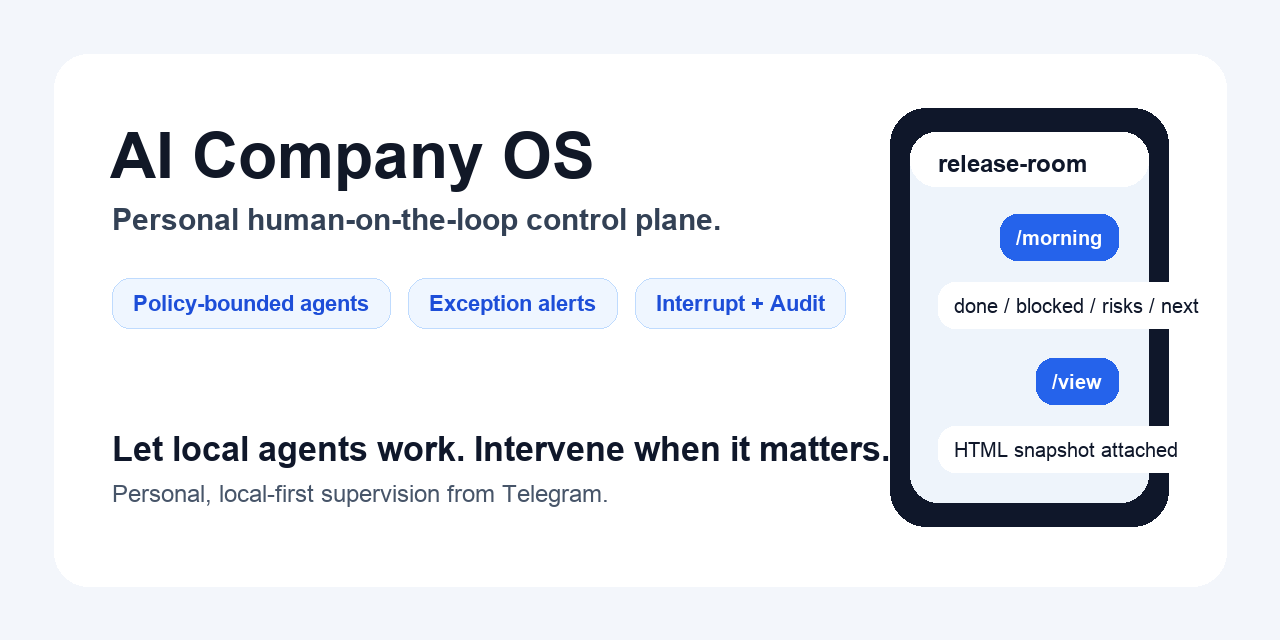
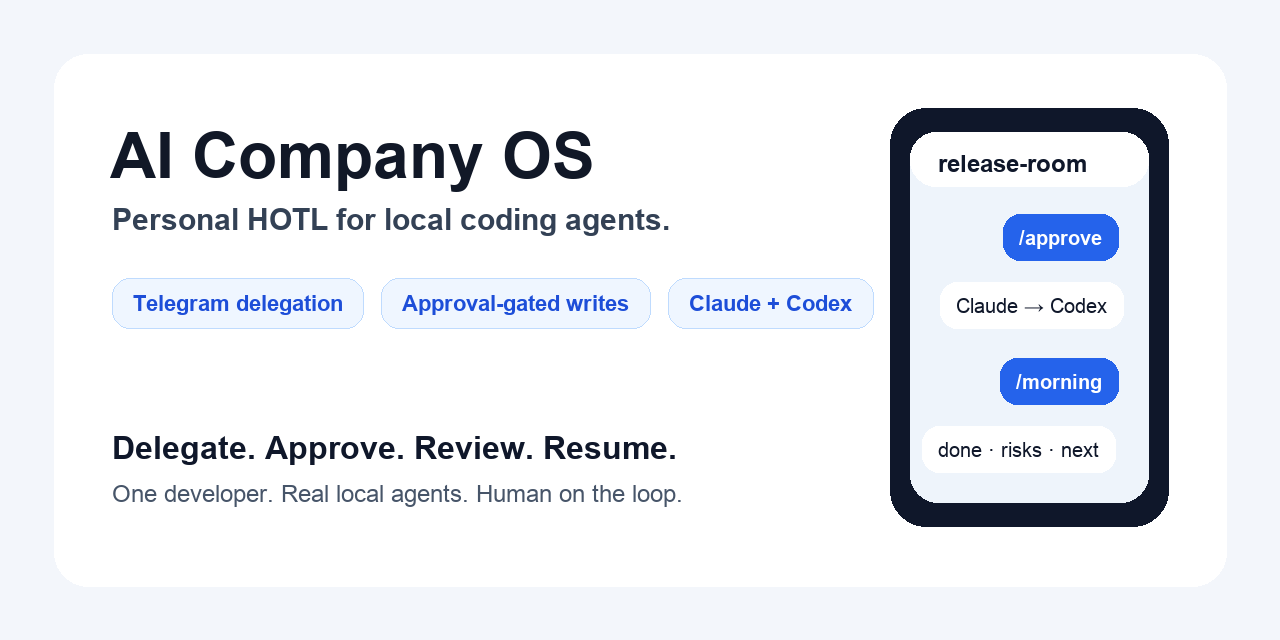
docs: refresh AICO GitHub positioning

diff --git a/examples/release-room/generate-public-gif.py b/examples/release-room/generate-public-gif.py
@@ -287,11 +287,11 @@ def _render_social_preview() -> Image.Image:
     draw.text((110, 120), "AI Company OS", fill="#111827", font=_font(64, bold=True))
     draw.text(
         (112, 202),
-        "Personal human-on-the-loop control plane.",
+        "Personal HOTL for local coding agents.",
         fill="#334155",
         font=_font(30, bold=True),
     )
-    tags = ("Policy-bounded agents", "Exception alerts", "Interrupt + Audit")
+    tags = ("Telegram delegation", "Approval-gated writes", "Claude + Codex")
     x = 112
     for tag in tags:
         width = int(draw.textlength(tag, font=_font(22, bold=True))) + 42
@@ -306,19 +306,19 @@ def _render_social_preview() -> Image.Image:
     draw.rounded_rectangle((910, 132, 1148, 502), radius=28, fill="#eef4fb")
     draw.rounded_rectangle((910, 132, 1148, 186), radius=26, fill="#ffffff")
     draw.text((938, 150), "release-room", fill="#0f172a", font=_font(24, bold=True))
-    _social_bubble(draw, 944, 214, "/morning", mine=True)
-    _social_bubble(draw, 938, 282, "done / blocked / risks / next", mine=False)
-    _social_bubble(draw, 960, 358, "/view", mine=True)
-    _social_bubble(draw, 938, 426, "HTML snapshot attached", mine=False)
+    _social_bubble(draw, 944, 214, "/approve", mine=True)
+    _social_bubble(draw, 940, 282, "Claude → Codex", mine=False)
+    _social_bubble(draw, 960, 358, "/morning", mine=True)
+    _social_bubble(draw, 922, 426, "done · risks · next", mine=False)
     draw.text(
         (112, 430),
-        "Let local agents work. Intervene when it matters.",
+        "Delegate. Approve. Review. Resume.",
         fill="#0f172a",
-        font=_font(34, bold=True),
+        font=_font(32, bold=True),
     )
     draw.text(
         (112, 480),
-        "Personal, local-first supervision from Telegram.",
+        "One developer. Real local agents. Human on the loop.",
         fill="#475569",
         font=_font(24),
     )

diff --git a/docs/human/github-publication.md b/docs/human/github-publication.md
@@ -10,13 +10,13 @@
 GitHub 仓库 About 区域 description 建议填:
 
 ```text
-Remote control room for local AI coding agents: manage Claude Code, Codex, Cursor and more from Telegram or Feishu with roles, approvals, audit, memory and overnight handoff.
+Personal human-on-the-loop control plane for local AI coding agents: delegate from Telegram, coordinate Claude Code and Codex, approve risky writes, and resume from Morning/Audit.
 ```
 
 更短版本:
 
 ```text
-Remote IM control room for local AI coding agents.
+Personal HOTL control plane for local AI coding agents.
 ```
 
 ## Recommended Website
@@ -37,6 +37,8 @@ GitHub topics 最多 20 个,建议先填这组:
 ai-agents
 agent-os
 multi-agent
+agent-orchestration
+human-on-the-loop
 mcp
 developer-tools
 claude-code
@@ -47,8 +49,6 @@ feishu
 local-first
 automation
 python
-fastapi
-llm
 ai-coding
 approval-workflow
 audit-log
@@ -95,15 +95,16 @@ Social preview 需要在仓库 `Settings` 里上传图片。GitHub 官方建议:
 
 ```text
 AI Company OS
-Remote control room for your local AI coding agents
-Telegram / Feishu · Claude Code / Codex / Cursor · Approval · Audit · Memory
+Personal human-on-the-loop control plane
+Telegram delegation · Claude Code + Codex · Approval · Morning + Audit
 ```
 
 画面建议:
 
 - 左侧:项目名和一句话定位。
 - 右侧:Telegram Release Room 截图或简化流程图。
-- 底部:3 个短标签,例如 `IM-first`, `Local agents`, `Approval + audit`。
+- 底部:3 个短标签,例如 `Telegram delegation`, `Approval-gated writes`,
+  `Claude + Codex`。
 
 当前已生成可上传文件:
 

diff --git a/README.md b/README.md
@@ -1,7 +1,8 @@
 # AI Company OS
 
-> **A personal human-on-the-loop control plane for local AI coding agents — supervise by
-> exception from Telegram while your Mac keeps working.**
+> **A personal, local-first human-on-the-loop control plane for AI coding agents —
+> delegate from Telegram, coordinate Claude Code and Codex by role, approve risky work
+> remotely, and return to an auditable handoff.**
 
 [![License: MIT](https://img.shields.io/badge/license-MIT-blue.svg)](LICENSE)
 [![Python 3.11+](https://img.shields.io/badge/python-3.11%2B-blue.svg)](https://www.python.org/downloads/)
@@ -11,6 +12,10 @@
 [![PRs Welcome](https://img.shields.io/badge/PRs-welcome-brightgreen.svg)](CONTRIBUTING.md)
 
 [中文](README.zh-CN.md) · [Capabilities](docs/human/core-capability-map.md) · [Quickstart](docs/human/quickstart.md) · [Demo](docs/examples/release-room.md) · [Roadmap](STATUS.md) · [Architecture](docs/architecture/boss-first-grounding.md) · [Agents](AGENTS.md)
+
+| Delegate remotely | Coordinate real agents | Keep control | Resume with evidence |
+|---|---|---|---|
+| `/ask` and `/overnight` from Telegram | Projects, roles, Claude Code, Codex, and other local CLIs | `/approve`, `/reject`, `/interrupt`, bounded grants | `/inbox`, `/morning`, `/task`, `/audit`, `/view` |
 
 ![Real AICO self-repair case](docs/assets/aico-self-repair.gif)
 

diff --git a/README.zh-CN.md b/README.zh-CN.md
@@ -1,9 +1,13 @@
 # AI Company OS
 
-> 面向个人本机 AI coding agents 的 Human-on-the-loop 远程控制层:Agent 在边界内推进,
-> 人只处理例外并可从 Telegram 随时介入。
+> 面向个人本机 AI coding agents 的 Human-on-the-loop 远程控制层：从 Telegram 派工，
+> 让 Claude Code 与 Codex 按岗位协作，远程审批风险动作，再从可审计的交接结果继续接手。
 
 [English](README.md) · [核心能力地图](docs/human/core-capability-map.md) · [快速上手](docs/human/quickstart.md) · [Release Room Demo](docs/examples/release-room.md) · [路线图](STATUS.md) · [老板第一路线图](docs/architecture/boss-first-grounding.md) · [Agent 接手入口](AGENTS.md)
+
+| 远程派工 | 真实 Agent 协作 | 人保留控制权 | 带证据接手 |
+|---|---|---|---|
+| Telegram `/ask`、`/overnight` | 项目、岗位、Claude Code、Codex 与其他本机 CLI | `/approve`、`/reject`、`/interrupt`、有界授权 | `/inbox`、`/morning`、`/task`、`/audit`、`/view` |
 
 AI Company OS 把你电脑上的 Claude Code、Codex、Cursor、Gemini、Trae、CodeFlicker、
 或你自己的 CLI 收编成一个可以通过 Telegram 远程管理的项目团队。飞书已经实现第一个非
